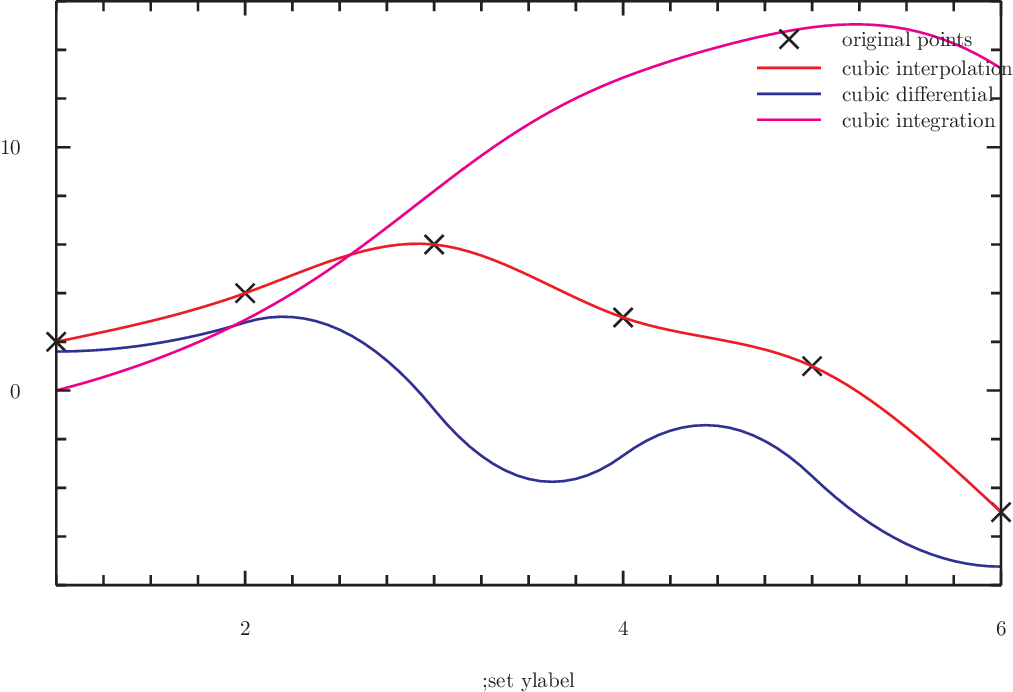
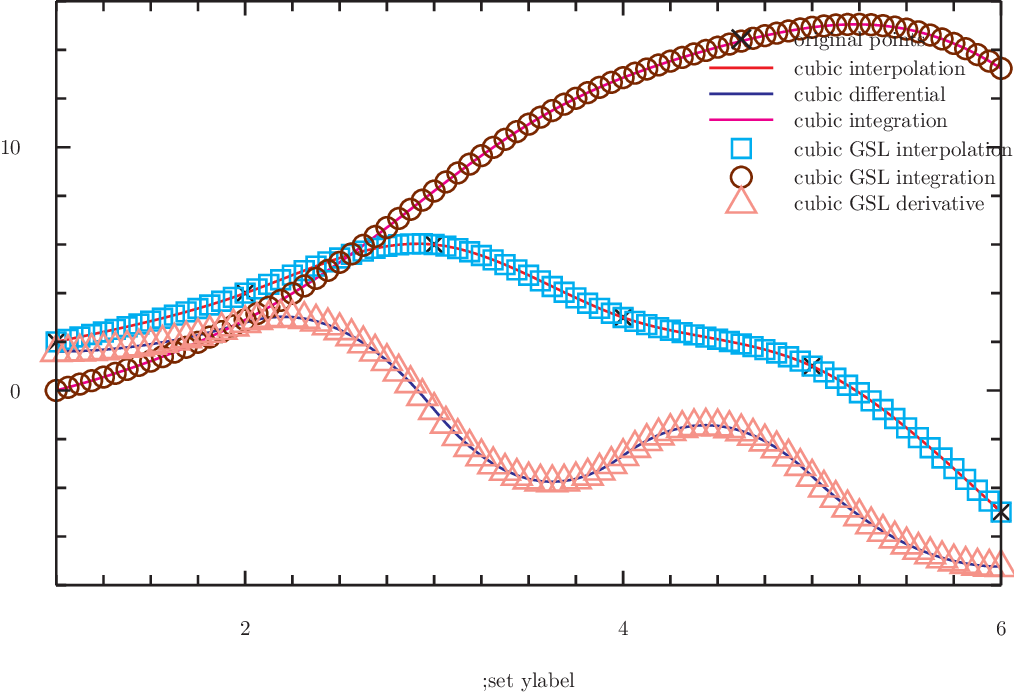
doneABC

Changed region(s): [[0.0306, 0.0, 1.0, 0.8497], [0.4896, 0.9711, 0.5814, 1.0], [0.9793, 0.8801, 1.0, 0.9104]]

diff --git a/Homework/Interpolation/main.c b/Homework/Interpolation/main.c
@@ -71,6 +71,8 @@ int main(){
 	gsl_interp* linear= gsl_interp_alloc(gsl_interp_linear,N);
 	gsl_interp_init(linear,gslx,gsly,N);
 
+	gsl_interp* cubic=gsl_interp_alloc(gsl_interp_cspline,N);
+	gsl_interp_init(cubic,gslx,gsly,N);
 //A linear, quad, and cubic interpolation is done on the points loaded in vectors x and y.
 //The values are written into a file linterp.dat. Along with the integral top that point.
 	FILE * f=fopen("linterp.dat","w");
@@ -88,7 +90,10 @@ int main(){
 		double cubicterp=cubic_spline_eval(ss,z);
 		double cubicterpdiffiz=cubic_diff(ss,z);
 		double cubicterptilz=cubic_integ(ss,z);
-		fprintf(f,"%g %g %g %g %g %g %g %g %g %g %g\n",z,yiz,integraltilz,quadterp,quadterptilz,quadterpdiffiz,interp_l,integ_l,cubicterp,cubicterpdiffiz,cubicterptilz);
+		double interp_cubic=gsl_interp_eval(cubic,gslx,gsly,z,NULL);
+		double integ_cubic=gsl_interp_eval_integ(cubic,gslx,gsly,gslx[0],z,NULL);
+		double diff_cubic=gsl_interp_eval_deriv(cubic,gslx,gsly,z,NULL);
+		fprintf(f,"%g %g %g %g %g %g %g %g %g %g %g %g %g %g\n",z,yiz,integraltilz,quadterp,quadterptilz,quadterpdiffiz,interp_l,integ_l,cubicterp,cubicterpdiffiz,cubicterptilz,interp_cubic,integ_cubic,diff_cubic);
 		}
 	fclose(f);
 
